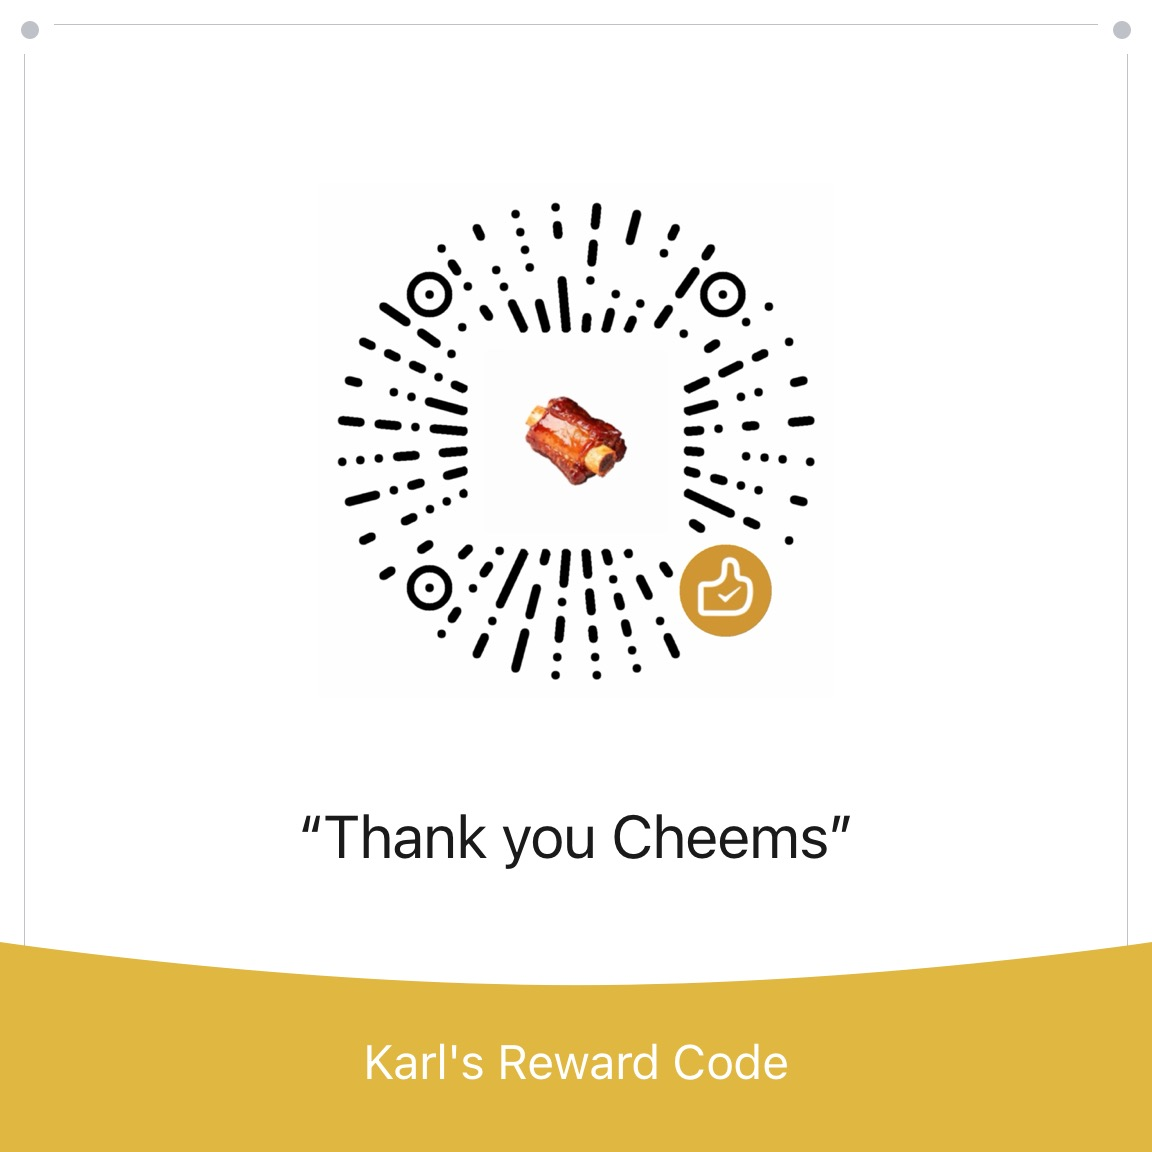
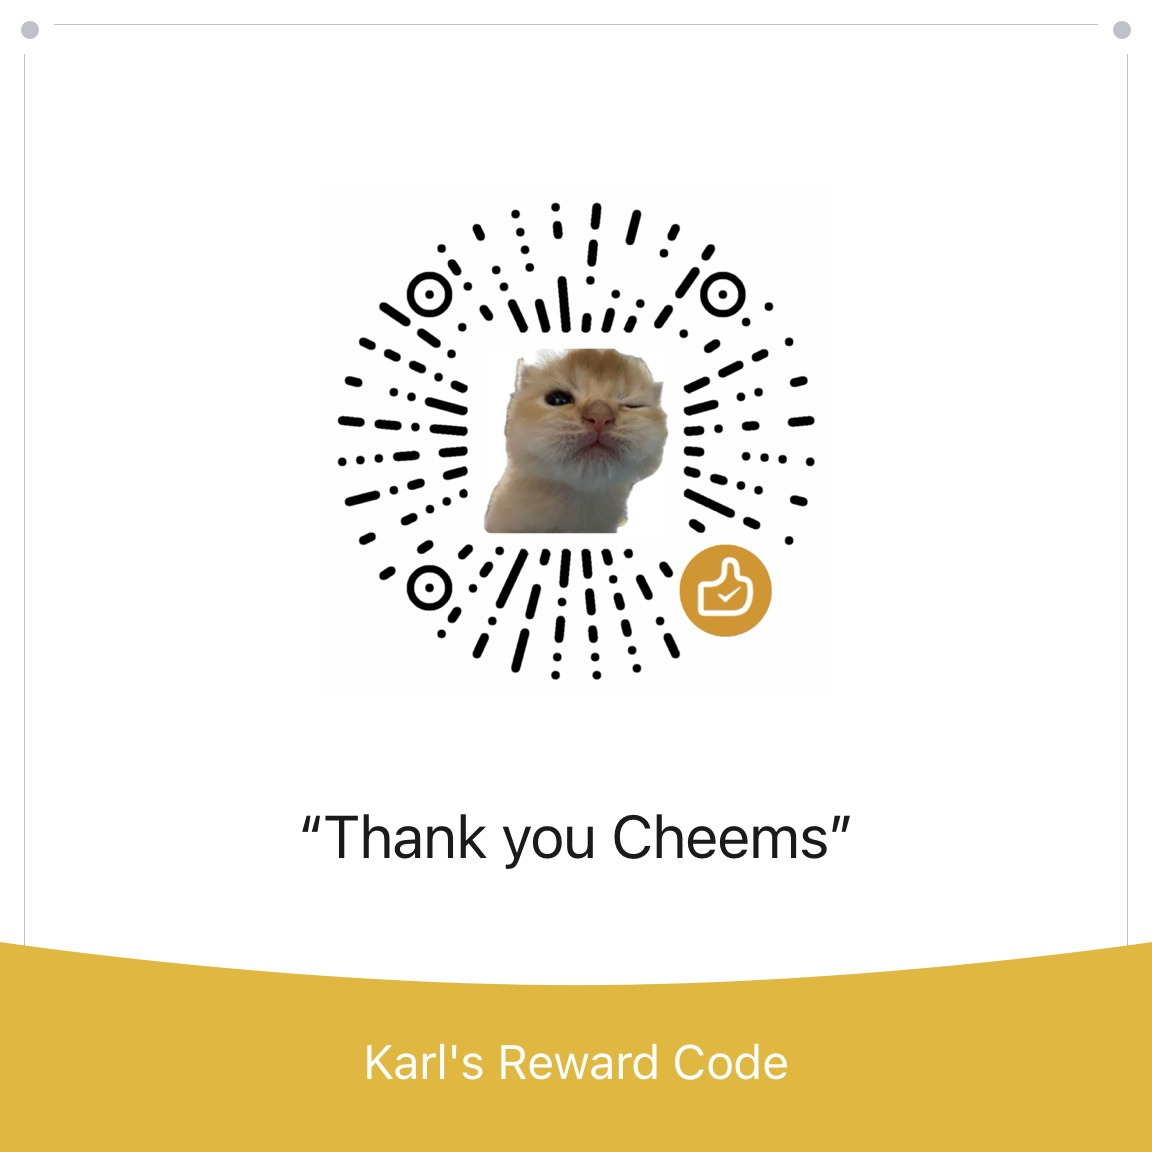
feat(ui): redesign timer progress presentation
- Replace the overlapping banana silhouette with a unified circular progress ring
- Separate the banana emoji and percentage and pin full-circle Tk behavior
- Refresh the reward code and make the App Release badge follow latest releases

---

feat(ui): 重新设计计时进度呈现

- 用统一圆形进度环替换相互重叠的香蕉剪影
- 分离香蕉 emoji 与百分比，并固定 Tk 满环行为
- 更新赞赏码并让 App Release badge 跟随最新发布

Changed region(s): [[0.4062, 0.2812, 0.5938, 0.4688]]

diff --git a/bomana/ui/widgets.py b/bomana/ui/widgets.py
@@ -53,7 +53,7 @@ class Pill(tk.Label):
 
 
 class BananaProgress(tk.Canvas):
-    """Large timer progress with a banana emoji and percent label."""
+    """Timer progress ring with separated banana emoji and percent label."""
 
     def __init__(self, parent, *, size: int = 52, bg: str = Theme.GRAYPILL):
         self.size = max(24, int(size))
@@ -67,39 +67,33 @@ class BananaProgress(tk.Canvas):
         )
         self.progress = 0.0
         self._progress_color = Theme.BLUE
-        self.outline_points = self._build_outline_points()
-        flat = self._flatten(self.outline_points)
-        self.create_polygon(
-            *flat,
+        ring_inset = max(3, int(self.size * 0.065))
+        ring_width = max(3, int(self.size * 0.065))
+        ring_bounds = (ring_inset, ring_inset, self.size - ring_inset, self.size - ring_inset)
+        self.base_ring = self.create_oval(
+            *ring_bounds,
             fill=Theme.SEPARATOR,
-            outline="",
-            smooth=True,
-            splinesteps=12,
-            tags=("banana_silhouette",),
+            outline=Theme.BORDER,
+            width=ring_width,
+            tags=("timer_ring_base",),
         )
-        self.base_outline = self.create_line(
-            *flat,
-            fill=Theme.YELLOW,
-            width=max(2, int(self.size * 0.055)),
-            smooth=True,
-            splinesteps=12,
-            tags=("banana_outline",),
-        )
-        self.progress_outline = self.create_line(
-            *flat[:4],
-            fill=self._progress_color,
-            width=max(2, int(self.size * 0.07)),
-            smooth=True,
-            splinesteps=12,
+        self.progress_arc = self.create_arc(
+            *ring_bounds,
+            start=90,
+            extent=0,
+            style=tk.ARC,
+            outline=self._progress_color,
+            width=ring_width,
             state="hidden",
+            tags=("timer_progress_arc",),
         )
         emoji_font = resolve_tk_font_tuple(
             self,
-            ("Segoe UI Emoji", max(18, int(self.size * 0.42))),
+            ("Segoe UI Emoji", max(16, int(self.size * 0.32))),
         )
         self.emoji_text = self.create_text(
-            self.size * 0.48,
-            self.size * 0.38,
+            self.size * 0.50,
+            self.size * 0.29,
             text="🍌",
             fill=Theme.YELLOW,
             font=emoji_font,
@@ -111,35 +105,14 @@ class BananaProgress(tk.Canvas):
             ("Segoe UI", max(8, int(self.size * 0.17)), "bold"),
         )
         self.percent_text = self.create_text(
-            self.size * 0.48,
-            self.size * 0.73,
+            self.size * 0.50,
+            self.size * 0.76,
             text="0%",
             fill=Theme.TEXT,
             font=percent_font,
             anchor="center",
             tags=("banana_percent",),
         )
-
-    @staticmethod
-    def _bezier(p0, p1, p2, p3, steps: int = 28) -> list[tuple[float, float]]:
-        points = []
-        for index in range(steps + 1):
-            t = index / steps
-            inv = 1.0 - t
-            x = inv**3 * p0[0] + 3 * inv**2 * t * p1[0] + 3 * inv * t**2 * p2[0] + t**3 * p3[0]
-            y = inv**3 * p0[1] + 3 * inv**2 * t * p1[1] + 3 * inv * t**2 * p2[1] + t**3 * p3[1]
-            points.append((x, y))
-        return points
-
-    def _build_outline_points(self) -> list[tuple[float, float]]:
-        scale = float(self.size)
-        outer = self._bezier((0.72, 0.12), (0.84, 0.54), (0.52, 0.92), (0.15, 0.72))
-        inner = self._bezier((0.15, 0.72), (0.38, 0.74), (0.58, 0.48), (0.72, 0.12))
-        return [(x * scale, y * scale) for x, y in (*outer, *inner[1:])]
-
-    @staticmethod
-    def _flatten(points: list[tuple[float, float]]) -> list[float]:
-        return [coordinate for point in points for coordinate in point]
 
     def set_progress(self, value: float) -> None:
         try:
@@ -149,24 +122,17 @@ class BananaProgress(tk.Canvas):
         self.progress = max(0.0, min(1.0, progress))
         self.itemconfigure(self.percent_text, text=f"{round(self.progress * 100):d}%")
         if self.progress <= 0.0:
-            self.itemconfigure(self.progress_outline, state="hidden")
+            self.itemconfigure(self.progress_arc, extent=0, state="hidden")
             return
-        point_count = max(
-            2,
-            min(
-                len(self.outline_points),
-                round(len(self.outline_points) * self.progress),
-            ),
+        self.itemconfigure(
+            self.progress_arc,
+            extent=-min(359.9, 360.0 * self.progress),
+            state="normal",
         )
-        self.coords(
-            self.progress_outline,
-            *self._flatten(self.outline_points[:point_count]),
-        )
-        self.itemconfigure(self.progress_outline, state="normal")
 
     def set_color(self, color: str) -> None:
         self._progress_color = str(color or Theme.BLUE)
-        self.itemconfigure(self.progress_outline, fill=self._progress_color)
+        self.itemconfigure(self.progress_arc, outline=self._progress_color)
 
 
 class HeadingTape(tk.Canvas):

diff --git a/tests/test_ui_geometry.py b/tests/test_ui_geometry.py
@@ -166,7 +166,7 @@ class TkGeometryTests(unittest.TestCase):
         self.assertLess(heights[0], heights[1])
         self.assertLess(heights[1], heights[2])
 
-    def test_banana_progress_clamps_and_draws_partial_outline(self) -> None:
+    def test_banana_progress_ring_separates_emoji_and_percent(self) -> None:
         banana = BananaProgress(self.root, size=64)
         banana.pack()
         try:
@@ -175,19 +175,18 @@ class TkGeometryTests(unittest.TestCase):
             self.assertEqual(banana.progress, 0.5)
             self.assertEqual(banana.itemcget(banana.percent_text, "text"), "50%")
             self.assertEqual(banana.itemcget(banana.emoji_text, "text"), "🍌")
-            self.assertGreater(len(banana.coords(banana.progress_outline)), 4)
-            self.assertLess(
-                len(banana.coords(banana.progress_outline)),
-                len(banana.outline_points) * 2,
-            )
+            self.assertEqual(float(banana.itemcget(banana.progress_arc, "extent")), -180.0)
+            emoji_bbox = banana.bbox(banana.emoji_text)
+            percent_bbox = banana.bbox(banana.percent_text)
+            self.assertIsNotNone(emoji_bbox)
+            self.assertIsNotNone(percent_bbox)
+            assert emoji_bbox is not None and percent_bbox is not None
+            self.assertLess(emoji_bbox[3], percent_bbox[1])
 
             banana.set_progress(2.0)
             self.assertEqual(banana.progress, 1.0)
             self.assertEqual(banana.itemcget(banana.percent_text, "text"), "100%")
-            self.assertEqual(
-                len(banana.coords(banana.progress_outline)),
-                len(banana.outline_points) * 2,
-            )
+            self.assertEqual(float(banana.itemcget(banana.progress_arc, "extent")), -359.9)
             bbox = banana.bbox("all")
             self.assertIsNotNone(bbox)
             assert bbox is not None

diff --git a/tests/test_build_metadata.py b/tests/test_build_metadata.py
@@ -55,6 +55,13 @@ def test_portable_build_reads_version_from_metadata() -> None:
     )
 
 
+def test_packaged_web_smoke_tracks_current_app_version() -> None:
+    smoke = (ROOT / "docs" / "guides" / "web-cockpit-smoke.md").read_text(encoding="utf-8")
+
+    assert f"Bomana_app_<Variant>_v{metadata.__version__}.zip" in smoke
+    assert smoke.count(f"App {metadata.__version__}") >= 2
+
+
 def test_build_portable_script_runs_without_pythonpath() -> None:
     env = os.environ.copy()
     env.pop("PYTHONPATH", None)

diff --git a/tests/contracts/test_timer_cycle_contract.py b/tests/contracts/test_timer_cycle_contract.py
@@ -51,6 +51,10 @@ def test_timer_uses_banana_emoji_percent_and_removes_legacy_horizontal_strip() -
     assert 'text="🍌"' in widgets
     assert "Segoe UI Emoji" in widgets
     assert "percent_text" in widgets
+    assert "progress_arc" in widgets
+    assert "banana_silhouette" not in widgets
+    assert "banana_outline" not in widgets
+    assert "outline_points" not in widgets
     assert "app.bar_bg" not in main_window
     assert "app.bar_fill" not in main_window
 

diff --git a/tests/test_quality_documentation.py b/tests/test_quality_documentation.py
@@ -51,3 +51,10 @@ def test_repository_local_markdown_links_resolve() -> None:
                     problems.append(f"{source.relative_to(ROOT)}:{line_number}: missing {target}")
 
     assert problems == []
+
+
+def test_readme_app_release_badge_tracks_latest_full_release() -> None:
+    readme = (ROOT / "README.md").read_text(encoding="utf-8")
+
+    assert "img.shields.io/github/v/release/Thankyou-Cheems/Bomana" in readme
+    assert "filter=v*.*.*-app" not in readme

diff --git a/bomana/metadata.py b/bomana/metadata.py
@@ -1,7 +1,7 @@
 """Project metadata shared by the app, launcher, and packaging tools."""
 
 __title__ = "Bomana"
-__version__ = "8.4.1"
+__version__ = "8.4.2"
 PORTABLE_MIN_LAUNCHER_VERSION = "3.0.0"
 __author__ = "Thankyou-Cheems"
 __license__ = "MIT"

diff --git a/docs/QUICKSTART.md b/docs/QUICKSTART.md
@@ -165,7 +165,7 @@ uv run python tools/update_datamine_assets.py ^
 - 生成 `manifest_<Variant>.json` 或 `launcher_manifest.json` 必须设置 `BOMANA_RELEASE_ED25519_PRIVATE_KEY`、`BOMANA_RELEASE_ED25519_PUBLIC_KEY` 和 `BOMANA_RELEASE_SIGNING_KEY_ID`（默认 `bomana-release-2026-06`）。
 - App 发布构建会自动编译并内置 native 热键 Broker；Actions 使用 `actions/attest@v4` 为最终包、清单与校验文件生成来源证明。
 - 本地发布命令入口是 `uv run --frozen python tools/build_portable.py --variant Enhanced|Standard|Lite --target app|launcher|all`；`--version` 只是可选一致性校验，app 目标必须匹配 `bomana/metadata.py` 的 `__version__`，launcher 目标必须匹配 `launcher/metadata.py` 的 `LAUNCHER_VERSION`。
-- 当前源码版本为 App `8.4.1` / Launcher `3.1.0`，兼容下限仍为 App `8.0.0` / Launcher `3.0.0`。App ZIP 必须包含共享版本边界与网页控制 schemas；不要用不兼容的 Launcher 或 App 目录代替真实打包烟测。
+- 当前源码版本为 App `8.4.2` / Launcher `3.1.0`，兼容下限仍为 App `8.0.0` / Launcher `3.0.0`。App ZIP 必须包含共享版本边界与网页控制 schemas；不要用不兼容的 Launcher 或 App 目录代替真实打包烟测。
 - 部署前先确认 `gh secret list --repo Thankyou-Cheems/Bomana`；GitHub Release 完成后在本机运行 `gh release download vX.Y.Z --dir dist`，再运行 `uv run python tools/deploy_update_assets.py --target app|launcher|all --version X.Y.Z`。不要用 GitHub Actions 直连腾讯云主机部署，公开端点验证必须调用 `verify_release_manifest_signature`。
 - 发布签名字段、密钥处理和部署边界以 [release-signing spec](./specs/release-signing.md) 为准。
 
@@ -315,7 +315,7 @@ to validate the complete core path in seconds without reopening the game.
 - Signed manifests require `BOMANA_RELEASE_ED25519_PRIVATE_KEY`, `BOMANA_RELEASE_ED25519_PUBLIC_KEY`, and `BOMANA_RELEASE_SIGNING_KEY_ID` (default `bomana-release-2026-06`).
 - App builds compile and bundle the native broker automatically. GitHub release jobs attest final packages, manifests, and checksum files with `actions/attest@v4`; Authenticode secrets are not required.
 - Local package entry: `uv run --frozen python tools/build_portable.py --variant Enhanced|Standard|Lite --target app|launcher|all`; `--version` is an optional consistency check and must match `bomana/metadata.py __version__` for app builds or `launcher/metadata.py LAUNCHER_VERSION` for launcher builds.
-- The current source versions are App `8.4.1` / Launcher `3.1.0`; compatibility floors remain App `8.0.0` / Launcher `3.0.0`. App ZIPs must include the shared version boundary and Web control schemas; use real packaged artifacts for compatibility and DPI smoke.
+- The current source versions are App `8.4.2` / Launcher `3.1.0`; compatibility floors remain App `8.0.0` / Launcher `3.0.0`. App ZIPs must include the shared version boundary and Web control schemas; use real packaged artifacts for compatibility and DPI smoke.
 - Before deploy, check `gh secret list --repo Thankyou-Cheems/Bomana`; after GitHub finishes the Release, run `gh release download vX.Y.Z --dir dist` and then `uv run python tools/deploy_update_assets.py --target app|launcher|all --version X.Y.Z` on the maintainer workstation. Do not deploy to Tencent from Actions. Public endpoint checks must call `verify_release_manifest_signature`.
 - Release signing fields, key handling, and deployment boundaries are canonical in [release-signing spec](./specs/release-signing.md).
 

diff --git a/docs/ARCHITECTURE.md b/docs/ARCHITECTURE.md
@@ -174,7 +174,7 @@ Note: the self-hosted update/statistics service was moved out of this repo; see 
    - `window_geometry.py` owns snap-anchor capture/application helpers so App geometry coordination can be tested without a Tk root.
    - `theme.py` owns runtime theme tokens, while `tk_style.py` owns shared Tk palette, action-button, and bordered clickable-surface styling used by the App, launcher, and modal dialogs.
    - Wrapped middle-surface content schedules one debounced expansion-only geometry sync. The sync compares current requested height with the root's actual height before reusing the existing window-size calculation, preventing the fixed bottom card from covering the final function/weapon row without creating a resize loop.
-   - The timer row renders normalized cycle progress through a large `BananaProgress` spanning the timer and badge rows: a banana emoji makes the cue immediately recognizable, the state-colored segment advances continuously, and a centered integer percentage makes progress readable at a glance. The configured integer cycle is shared by App config, core calculations, tray/Web target actions, snapshots, and persisted-state compatibility checks.
+   - The timer row renders normalized cycle progress through a large `BananaProgress` spanning the timer and badge rows: one state-colored circular ring surrounds the component, while the banana emoji occupies the upper center and the integer percentage occupies a separate lower band. The old banana silhouette/outline is absent, preventing the three signals from overlapping. The configured integer cycle is shared by App config, core calculations, tray/Web target actions, snapshots, and persisted-state compatibility checks.
 4. Alerts and sounds via `SoundConfig` + Windows Beep/custom files; `SoundManager` serializes playback through one worker queue and drops overlapping requests while a sound is active.
 5. Diagnostics flow:
    - `Bomana.pyw` initializes `bomana/utils/diagnostics.py` at startup.

diff --git a/docs/guides/web-cockpit-smoke.md b/docs/guides/web-cockpit-smoke.md
@@ -17,7 +17,7 @@ suite is not evidence that any scenario below was performed.
 - 准备两个相互隔离的桌面浏览器 profile，以及连接到同一可信局域网的真实
   手机。不要在记录中保存配对码、Cookie、CSRF 或幂等键。
 - 打包检查使用真实 Launcher `3.1.0` 与
-  `Bomana_app_<Variant>_v8.4.1.zip`，不要用源码目录代替。
+  `Bomana_app_<Variant>_v8.4.2.zip`，不要用源码目录代替。
 - 如需源码对照，使用当前 PowerShell 进程内的显式开发标记：
 
   ```powershell
@@ -125,7 +125,7 @@ Bomana 本身不新增规则、不触发 UAC，也不开放公用网络规则。
 
 ### WDB-M08 三通道打包资源 | Packaged variants and offline assets
 
-分别从 Enhanced、Standard、Lite 的真实 App 8.4.1 包启动；断开外网后打开
+分别从 Enhanced、Standard、Lite 的真实 App 8.4.2 包启动；断开外网后打开
 页面并查看浏览器 Network 面板。
 
 预期：HTML/CSS/JS/SVG、项目 PNG 标识与字体均从 Bomana 自身地址加载，无 CDN、远程字体、
@@ -180,7 +180,7 @@ auto-open 在 autostart 关闭时不单独启动服务。退出后本机和 LAN 
 
 在隔离副本中运行 packaged-launcher smoke，并人工核对以下结果：
 
-- Launcher 3.1.0 + App 8.4.1 正常交接，App 在运行时初始化前拿到严格
+- Launcher 3.1.0 + App 8.4.2 正常交接，App 在运行时初始化前拿到严格
   `BOMANA_LAUNCHER_VERSION`；
 - 缺失、畸形或 `2.9.9` 的 Launcher 身份被打包 App 拒绝，即使设置
   `BOMANA_SOURCE_DEVELOPMENT=1` 也不能绕过；

diff --git a/docs/specs/timer-cycle.md b/docs/specs/timer-cycle.md
@@ -35,9 +35,10 @@ state, Web commands, and the main-window progress presentation.
 - `TIMER-06`: Dashboard snapshot and control-state projections MUST expose the
   effective `cycle_minutes`, and the exhaustive Web command matrix MAY change it
   only through a bounded integer `config.set_timer_cycle_minutes` command.
-- `TIMER-07`: The App timer MUST render progress as a muted banana silhouette
-  with a continuous outline segment equal to normalized timer progress and MUST
-  remove the legacy horizontal timer strip.
+- `TIMER-07`: The App timer MUST render normalized progress as a continuous
+  circular ring around one banana emoji, place the integer percentage in a
+  separate lower visual band without overlapping the emoji, and MUST remove
+  both the legacy horizontal timer strip and the banana silhouette outline.
 - `TIMER-08`: `FINAL_WARNING_SEC` and the existing warning-sound seconds MUST
   remain absolute seconds independent of the configured period.
 

diff --git a/docs/specs/ui-presenter-boundary.md b/docs/specs/ui-presenter-boundary.md
@@ -52,10 +52,11 @@ modules, Tk renderers, and runtime side effects.
   terms, MUST NOT show selection-source text such as `手选`, and MUST omit a
   separate weapon model/quality row when the range/status rows already convey
   the actionable solution.
-- `UI-PRES-10`: The timer MUST use a large banana display spanning the timer and
-  badge-row height, with a visible banana emoji, a distinct state-colored
-  progress cue, and a centered integer cycle-progress percentage that remains
-  inside the canvas at supported App scale/DPI combinations.
+- `UI-PRES-10`: The timer MUST use a large circular progress display spanning
+  the timer and badge-row height, with one visible banana emoji in the upper
+  center and a centered integer cycle-progress percentage in a separate lower
+  band. The state-colored ring, emoji, and percentage MUST remain mutually
+  non-overlapping and inside the canvas at supported App scale/DPI combinations.
 
 ## Contract Coverage
 

diff --git a/README.md b/README.md
@@ -12,7 +12,7 @@ In this README, terms like "bomb", "bombing", and "CCRP" refer only to virtual i
   <img src="bomana/assets/branding/app.png" width="320" alt="Bomana promotional art">
 </p>
 
-[![App Release](https://img.shields.io/github/v/tag/Thankyou-Cheems/Bomana?sort=semver&filter=v*.*.*-app&label=app%20release)](https://github.com/Thankyou-Cheems/Bomana/releases)
+[![App Release](https://img.shields.io/github/v/release/Thankyou-Cheems/Bomana?label=app%20release)](https://github.com/Thankyou-Cheems/Bomana/releases/latest)
 [![License](https://img.shields.io/badge/license-MIT-green.svg)](LICENSE)
 [![Python](https://img.shields.io/badge/python-3.14%2B-yellow.svg)](https://www.python.org/)
 [![DAU](https://img.shields.io/badge/dynamic/json?url=https%3A%2F%2Fbomanaupdate.ruikang.wang%2Fapi%2Fv1%2Fstats%2Fdaily&query=%24.metrics.dau_unique_device&label=DAU&color=brightgreen)](https://bomanaupdate.ruikang.wang/api/v1/stats/daily)
